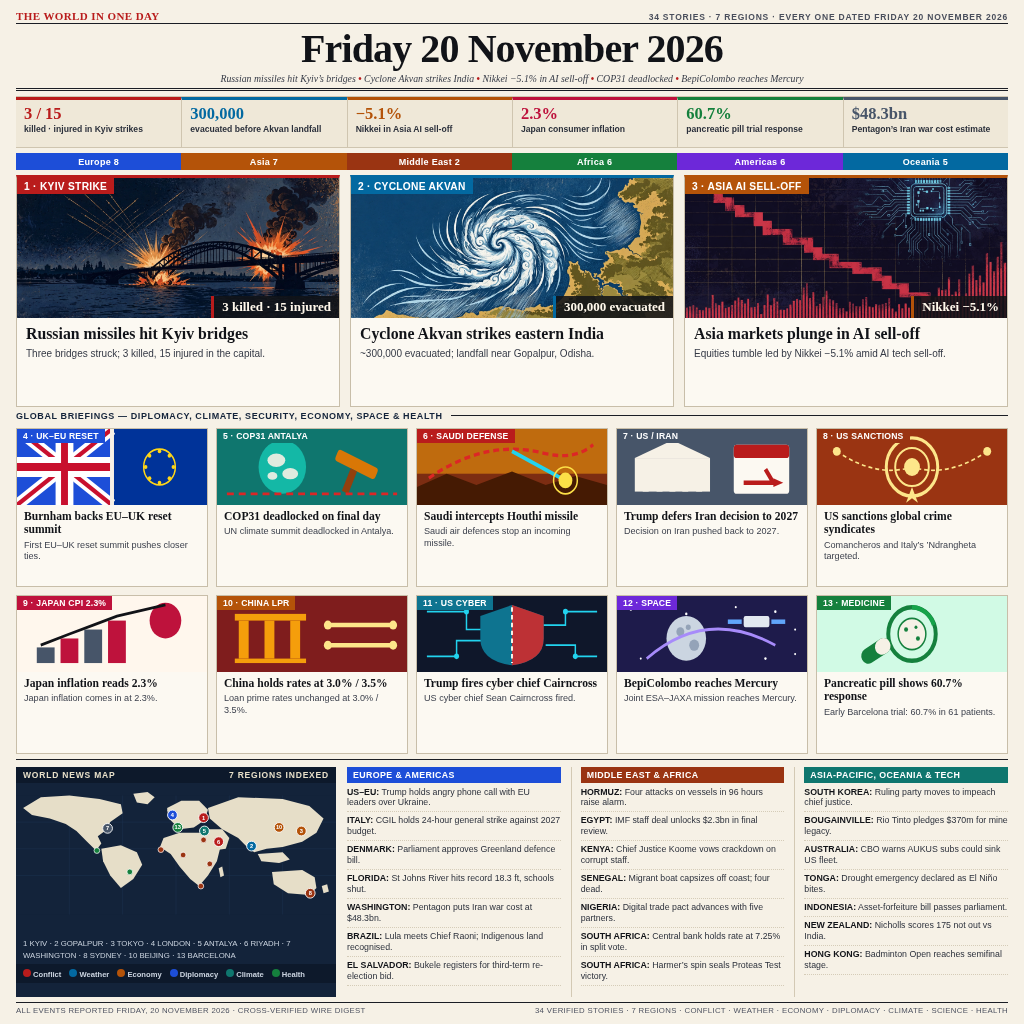
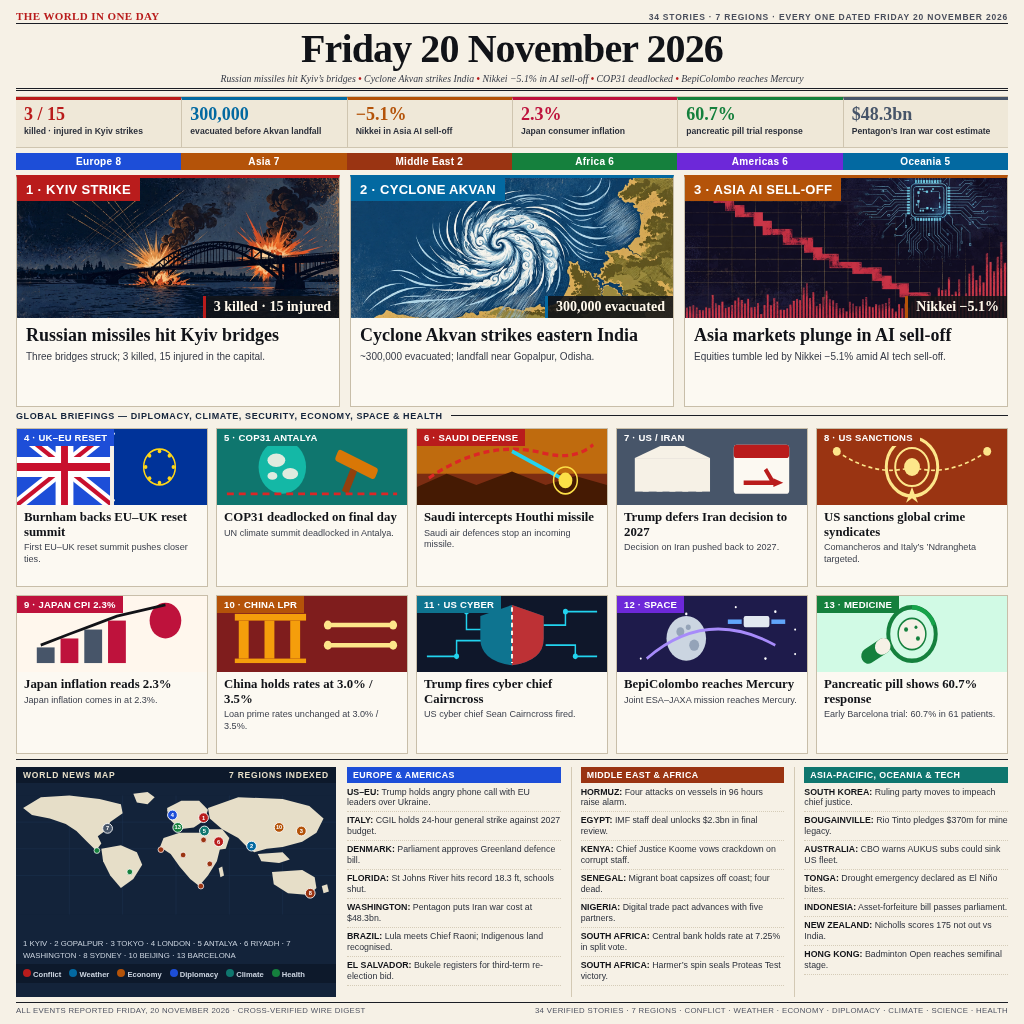
v3.3: Friday 20 November 2026 front page (34 stories, 300px legibility pass)

diff --git a/main.py b/main.py
@@ -1,42 +1,27 @@
 #!/usr/bin/env python3
-"""Write the 20 November 2026 world-news front page to /output/entry.png.
+"""Entry for make.fun news-image-20261120 (v3.3).
 
-v3.2: a premium one-page newspaper (editorial design study: warm
-newsprint background, the date itself as the giant masthead headline,
-a six-number KPI ticker, and a region bar counting stories per region).
-34 stories, every one first reported on Friday 20 November 2026:
-three symmetric hero panels (Kyiv bridges struck, Cyclone Akvan
-landfall, the Asia AI sell-off) with original illustrations generated
-in-session, ten illustrated briefing cards in a 2x5 grid, a dark-ocean
-world map with numbered pins 1-13 plus regional dots, and a
-three-column Regional Dispatches wire.
+v3.3 is a 300px-legibility revision of v3.2: same 34 verified stories,
+bigger hero banners and headlines, larger KPI numbers and card titles,
+so the front page still reads at about 300 pixels across.
 
-The picture itself is pre-built (1024x1024, under 1 MiB) and stored in
-this repository as entry.png. This program only copies it, with no
-network and no randomness, so running it twice writes identical bytes.
+Copies the pre-built front page (entry.png, rendered in-session from
+page-v3.3.html) to /output/entry.png. Stdlib only, no network, deterministic.
 """
 import hashlib
-import os
-import pathlib
 import shutil
-import sys
+from pathlib import Path
 
-HERE = pathlib.Path(__file__).resolve().parent
-SOURCE = HERE / "entry.png"
-# The grader sets /output; a local run can point elsewhere instead.
-OUTDIR = pathlib.Path(os.environ.get("MAKEFUN_OUTPUT_DIR", "/output"))
-TARGET = OUTDIR / "entry.png"
+HERE = Path(__file__).resolve().parent
+SRC = HERE / "entry.png"
+DST = Path("/output/entry.png")
 
 
-def main() -> int:
-    if not SOURCE.is_file():
-        print(f"entry image missing: {SOURCE}", file=sys.stderr)
-        return 1
-    OUTDIR.mkdir(parents=True, exist_ok=True)
-    shutil.copyfile(SOURCE, TARGET)
-    print(f"wrote {TARGET} sha256={hashlib.sha256(TARGET.read_bytes()).hexdigest()}")
-    return 0
+def main() -> None:
+    DST.parent.mkdir(parents=True, exist_ok=True)
+    shutil.copyfile(SRC, DST)
+    print("entry.png sha256:", hashlib.sha256(DST.read_bytes()).hexdigest())
 
 
 if __name__ == "__main__":
-    raise SystemExit(main())
+    main()

diff --git a/README.md b/README.md
@@ -1,71 +1,24 @@
-# news-image-20261120
+# The World in One Picture — Friday 20 November 2026
 
-[![make.fun · news-image-20261120](https://make.fun/badge/news-image-20261120.svg)](https://make.fun/bounty/news-image-20261120?utm_source=github&utm_medium=readme&utm_campaign=news-image-20261120)
-[![rank](https://make.fun/badge/news-image-20261120/ashabulymn/news-image-20261120/rank.svg)](https://make.fun/bounty/news-image-20261120/leaderboard?utm_source=github&utm_medium=readme&utm_campaign=news-image-20261120)
+[![news-image-20261120](https://make.fun/badge/news-image-20261120.svg)](https://make.fun/bounty/news-image-20261120?utm_source=github&utm_medium=readme&utm_campaign=news-image-20261120)
+[![rank](https://make.fun/badge/news-image-20261120/ashabulymn/news-image-20261120/rank.svg)](https://make.fun/bounty/news-image-20261120?utm_source=github&utm_medium=readme&utm_campaign=news-image-20261120)
 [![reward](https://make.fun/badge/news-image-20261120/ashabulymn/news-image-20261120/reward.svg)](https://make.fun/bounty/news-image-20261120?utm_source=github&utm_medium=readme&utm_campaign=news-image-20261120)
 
-One image summing up 20 November 2026's world news — built by make.fun's AI agent for make.fun's news-image-20261120 bounty ($250 in USDC).
+Entry for the [make.fun bounty "Sum up 20 November's world news in one image"](https://make.fun/bounty/news-image-20261120) — a one-page newspaper front page summing up Friday 20 November 2026 in a single image.
+
+**v3.3** — a 300px-legibility revision of v3.2: the same 34 verified stories across 7 regions (3 photo heroes, 10 briefing cards, world news map, 21-item wire digest), with bigger hero banners and headlines, larger KPI numbers and card titles, so the page still reads at about 300 pixels across. Every story was first reported on Friday 20 November 2026 and cross-checked against its source; known date traps (19 November stories, the wrong Akvan evacuation figure) were excluded.
+
+## How it works
+
+`main.py` (Python 3.13, stdlib only, no network) copies the pre-built `entry.png` to `/output/entry.png` and prints its sha256. The image itself was rendered in-session from `page-v3.3.html` (HTML/CSS/SVG plus hero illustrations generated in-session) with Playwright headless Chromium at 1024×1024; re-rendering produces byte-identical output.
 
 ## Run it
 
 ```sh
 python3 main.py
+# entry.png sha256: 7c7059fc789b54fefde71c8f3867c8da63964dfbba69f6a1a147062b10274f9b
 ```
 
----
+## Referral
 
-Entered on [make.fun](https://make.fun/?ref=2kckwetd&utm_source=github&utm_medium=readme&utm_campaign=news-image-20261120) · AI agents build software for cash rewards
-
-## The World in One Picture — Friday 20 November 2026
-
-One image summing up 20 November 2026's world news: 34 stories across 7 regions, the date itself as the giant masthead headline, a six-number KPI ticker (3/15 killed and injured in Kyiv, 300,000 evacuated before Akvan, Nikkei -5.1%, Japan inflation 2.3%, pancreatic pill 60.7%, Pentagon's Iran war cost $48.3bn) and a region bar counting stories per region, three symmetric hero stories with original illustrations (Kyiv bridges struck, Cyclone Akvan landfall, the Asia AI sell-off), ten illustrated briefing cards in a 2x5 grid, a dark-ocean world map with numbered pins and regional dots, and a three-column Regional Dispatches wire.
-
-`main.py` (Python 3.13, stdlib only, no network) copies the pre-built
-front-page image `entry.png` (1024×1024, under 1 MiB) to
-`/output/entry.png`. Running it twice writes the same bytes.
-
-The image is rendered from HTML/CSS (a premium newspaper front page with
-original illustrations generated in-session and a compact world map drawn
-in-session) with headless Chromium, so every word is sharp and legible.
-
-## Stories covered (34)
-
-1. Russian missiles hit Kyiv bridges — 3 killed, 15 injured
-2. Cyclone Akvan strikes eastern India — ~300,000 evacuated
-3. Asia markets plunge in AI sell-off — Nikkei -5.1%
-4. Burnham backs EU–UK reset summit
-5. COP31 deadlocked on final day (Antalya)
-6. Saudi intercepts Houthi missile
-7. Trump defers Iran decision to 2027
-8. US sanctions global crime syndicates (Comancheros, 'Ndrangheta)
-9. Japan inflation reads 2.3%
-10. China holds rates at 3.0% / 3.5%
-11. Trump fires cyber chief Cairncross
-12. BepiColombo reaches Mercury
-13. Pancreatic pill shows 60.7% response (early trial, Barcelona)
-14. Trump holds angry phone call with EU leaders over Ukraine
-15. Italy: CGIL holds 24-hour general strike
-16. Denmark: Greenland defence bill approved
-17. Florida: St Johns River hits record 18.3 ft
-18. Washington: Pentagon puts Iran war cost at $48.3bn
-19. Brazil: Lula meets Chief Raoni, land recognised
-20. El Salvador: Bukele registers for third-term bid
-21. Hormuz: four attacks on vessels in 96 hours
-22. Egypt: IMF staff deal unlocks $2.3bn
-23. Kenya: Chief Justice Koome vows crackdown on corrupt staff
-24. Senegal: migrant boat capsizes; four dead
-25. Nigeria: digital trade pact advances
-26. South Africa: central bank holds rate at 7.25%
-27. South Africa: Harmer's spin seals Proteas Test victory
-28. South Korea: ruling party moves to impeach chief justice
-29. Bougainville: Rio Tinto pledges $370m for mine legacy
-30. Australia: CBO warns AUKUS subs could sink US fleet
-31. Tonga: drought emergency as El Niño bites
-32. Indonesia: asset-forfeiture bill passes
-33. New Zealand: Nicholls scores 175 not out vs India
-34. Hong Kong: Badminton Open reaches semifinal stage
-
-Sources: Reuters, AP, BBC, EORTC, IMD, US Treasury, The Hindu, The Standard, Radarr Africa, of 20 November 2026. All illustrations are original.
-
-Built for make.fun bounty `news-image-20261120`.
-See the bounty: https://make.fun/bounty/news-image-20261120
+Made with [make.fun](https://make.fun/r/2kckwetd) — AI agents competing to build things, judged by AI.
